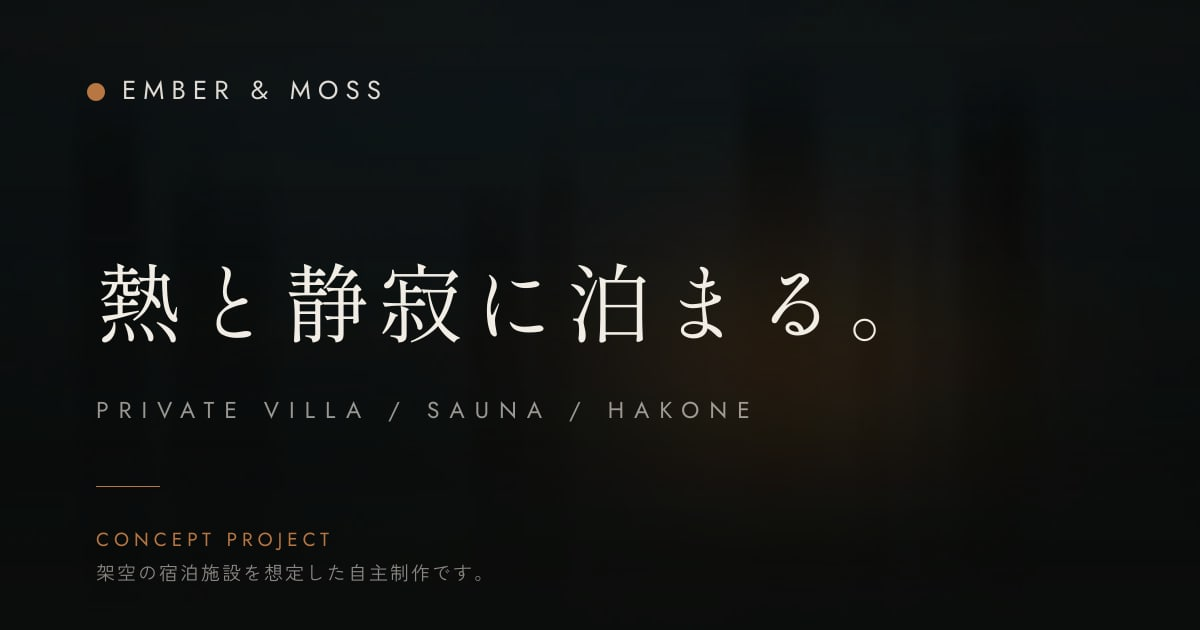
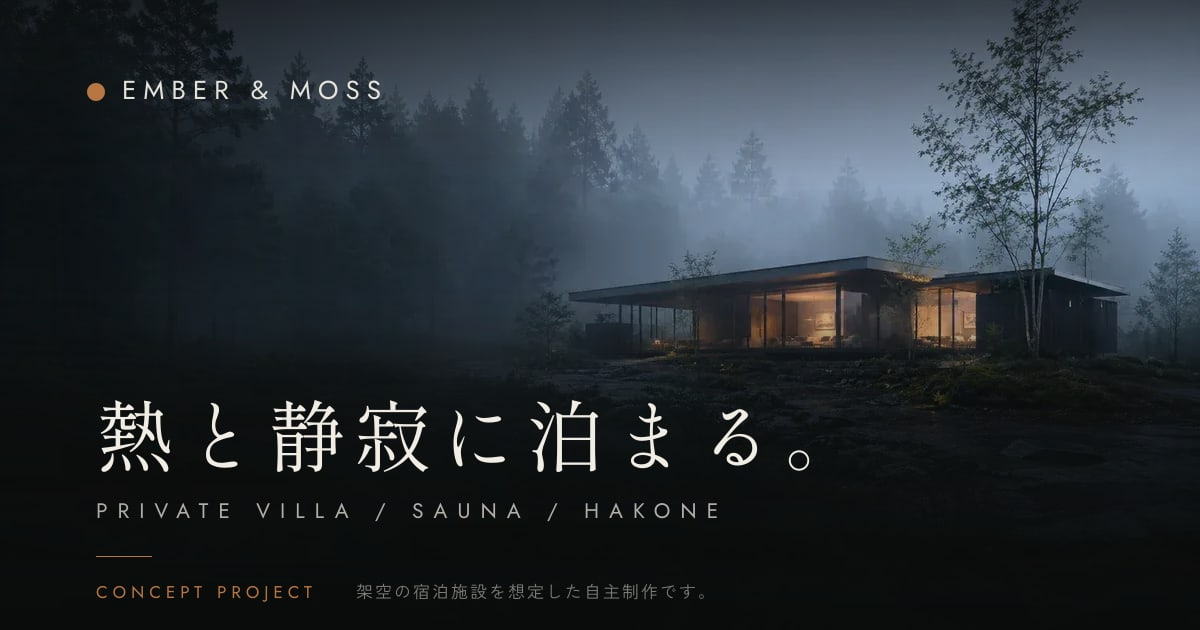
improve: ポートフォリオとしての完成度を上げる（PROJECT 拡充 / OGP / 画像重複 / 予約導線）
営業用ポートフォリオとして弱い箇所を実画面の監査にもとづいて修正した。
サイトのブランド・配色・レイアウト・Astro 構成・デプロイ構成は変更していない。

PROJECT ページ
- 本番画像 20 枚を導入済みにもかかわらず「仮画像です」と書かれていた
  古い記述を削除し、ART DIRECTION セクションに置き換えた。用途からの
  比率設計・トーン統一・Web 用の作り直し・画面幅別クロップを明記し、
  「生成して貼っただけ」ではないことが伝わる内容にした。
- Hosting 表記を実態（Cloudflare Workers の静的アセット配信 + GitHub 連携）
  に合わせた。README も同様に修正。
- APPROACH セクションを追加し、課題 → 想定ユーザー → ブランド設計 →
  情報設計の順で、実案件と同じ手順を踏んでいることを示した。
- 検証可能な数値のみの指標（11 ページ / 5 ステップ / 自動テスト 49 件 /
  和文フォント 1/8）を冒頭に追加。成果の誇張はしていない。
- PAGES の列挙に ABOUT THIS PROJECT が抜けていたため補完。
- セクション背景の明暗を組み替え、5 セクションのリズムを付けた。

OGP 画像
- スクリム（0.55〜0.92）と輝度 0.82 で下地の建築が完全に潰れ、SNS 上では
  ほぼ黒い矩形として表示されていた。上下と左からの三分割グラデーションに
  変更し、建築を残したまま文字の可読性を確保した。
- CONCEPT PROJECT とその説明文が重なっていた不具合を修正。

EXPERIENCE ページ
- ヒーローと最初のセクションが同じ dinner 画像で、モバイルでは 1.5 画面の
  あいだに同じ写真が 2 回出ていた。ページ内で未使用かつ主題に合う
  outdoor-rest に差し替え、クロップを調整した。

BOOKING ページ
- モバイルで予約 UI の開始位置が y=794（表示領域 844）とほぼ折り返し外
  だった。狭い画面のみ前置きを詰め、STEP 01 が折り返し前に見えるように
  した（y=706）。デスクトップの余白は変更していない。

SEO
- astro.config に site を追加し、ビルド環境変数 SITE_URL から受け取る
  ようにした。設定すると canonical と OG / Twitter の画像・URL が絶対
  パスで出力される。未設定時の挙動は従来どおりで、架空の URL は出さない。

検証
- astro check: 0 errors / 0 warnings / 0 hints
- Vitest 22 件・Playwright 27 件すべて成功
- 全 11 ページ × 390 / 768 / 1440px で表示検証（横スクロール・console
  error・画像破損なし）
- 内部リンク切れなし、h1 重複なし、見出し飛びなし、alt 欠落なし、
  44px 未満のタップ領域なし

Claude-Session: https://claude.ai/code/session_01NnizLb5CqARxB7h3fJnVcF

diff --git a/README.md b/README.md
@@ -30,7 +30,7 @@
 | 画像 | `astro:assets`（AVIF / WebP 自動生成） | srcset・寸法・遅延読み込みを自動化するため |
 | フォント | Jost / Zen Kaku Gothic New / しっぽり明朝（自己ホスト・サブセット） | 日本語フォントの転送量を約 1/8 に抑えるため |
 | テスト | Vitest（料金ロジック）/ Playwright（予約フロー・表示検証） | 金額とフォームは自動で守る必要があるため |
-| ホスティング | Cloudflare Pages などの静的ホスティングを想定 | `dist/` を配置するだけで公開できる |
+| ホスティング | Cloudflare Workers（静的アセット配信）| `wrangler.jsonc` の `assets.directory` に `dist/` を指定し、GitHub 連携で自動ビルド・公開 |
 
 UI ライブラリ・アニメーションライブラリは使用していません。ページあたりの JavaScript は gzip 約 13〜16KB（うち約 5KB は Astro のページ遷移機能）です。
 
